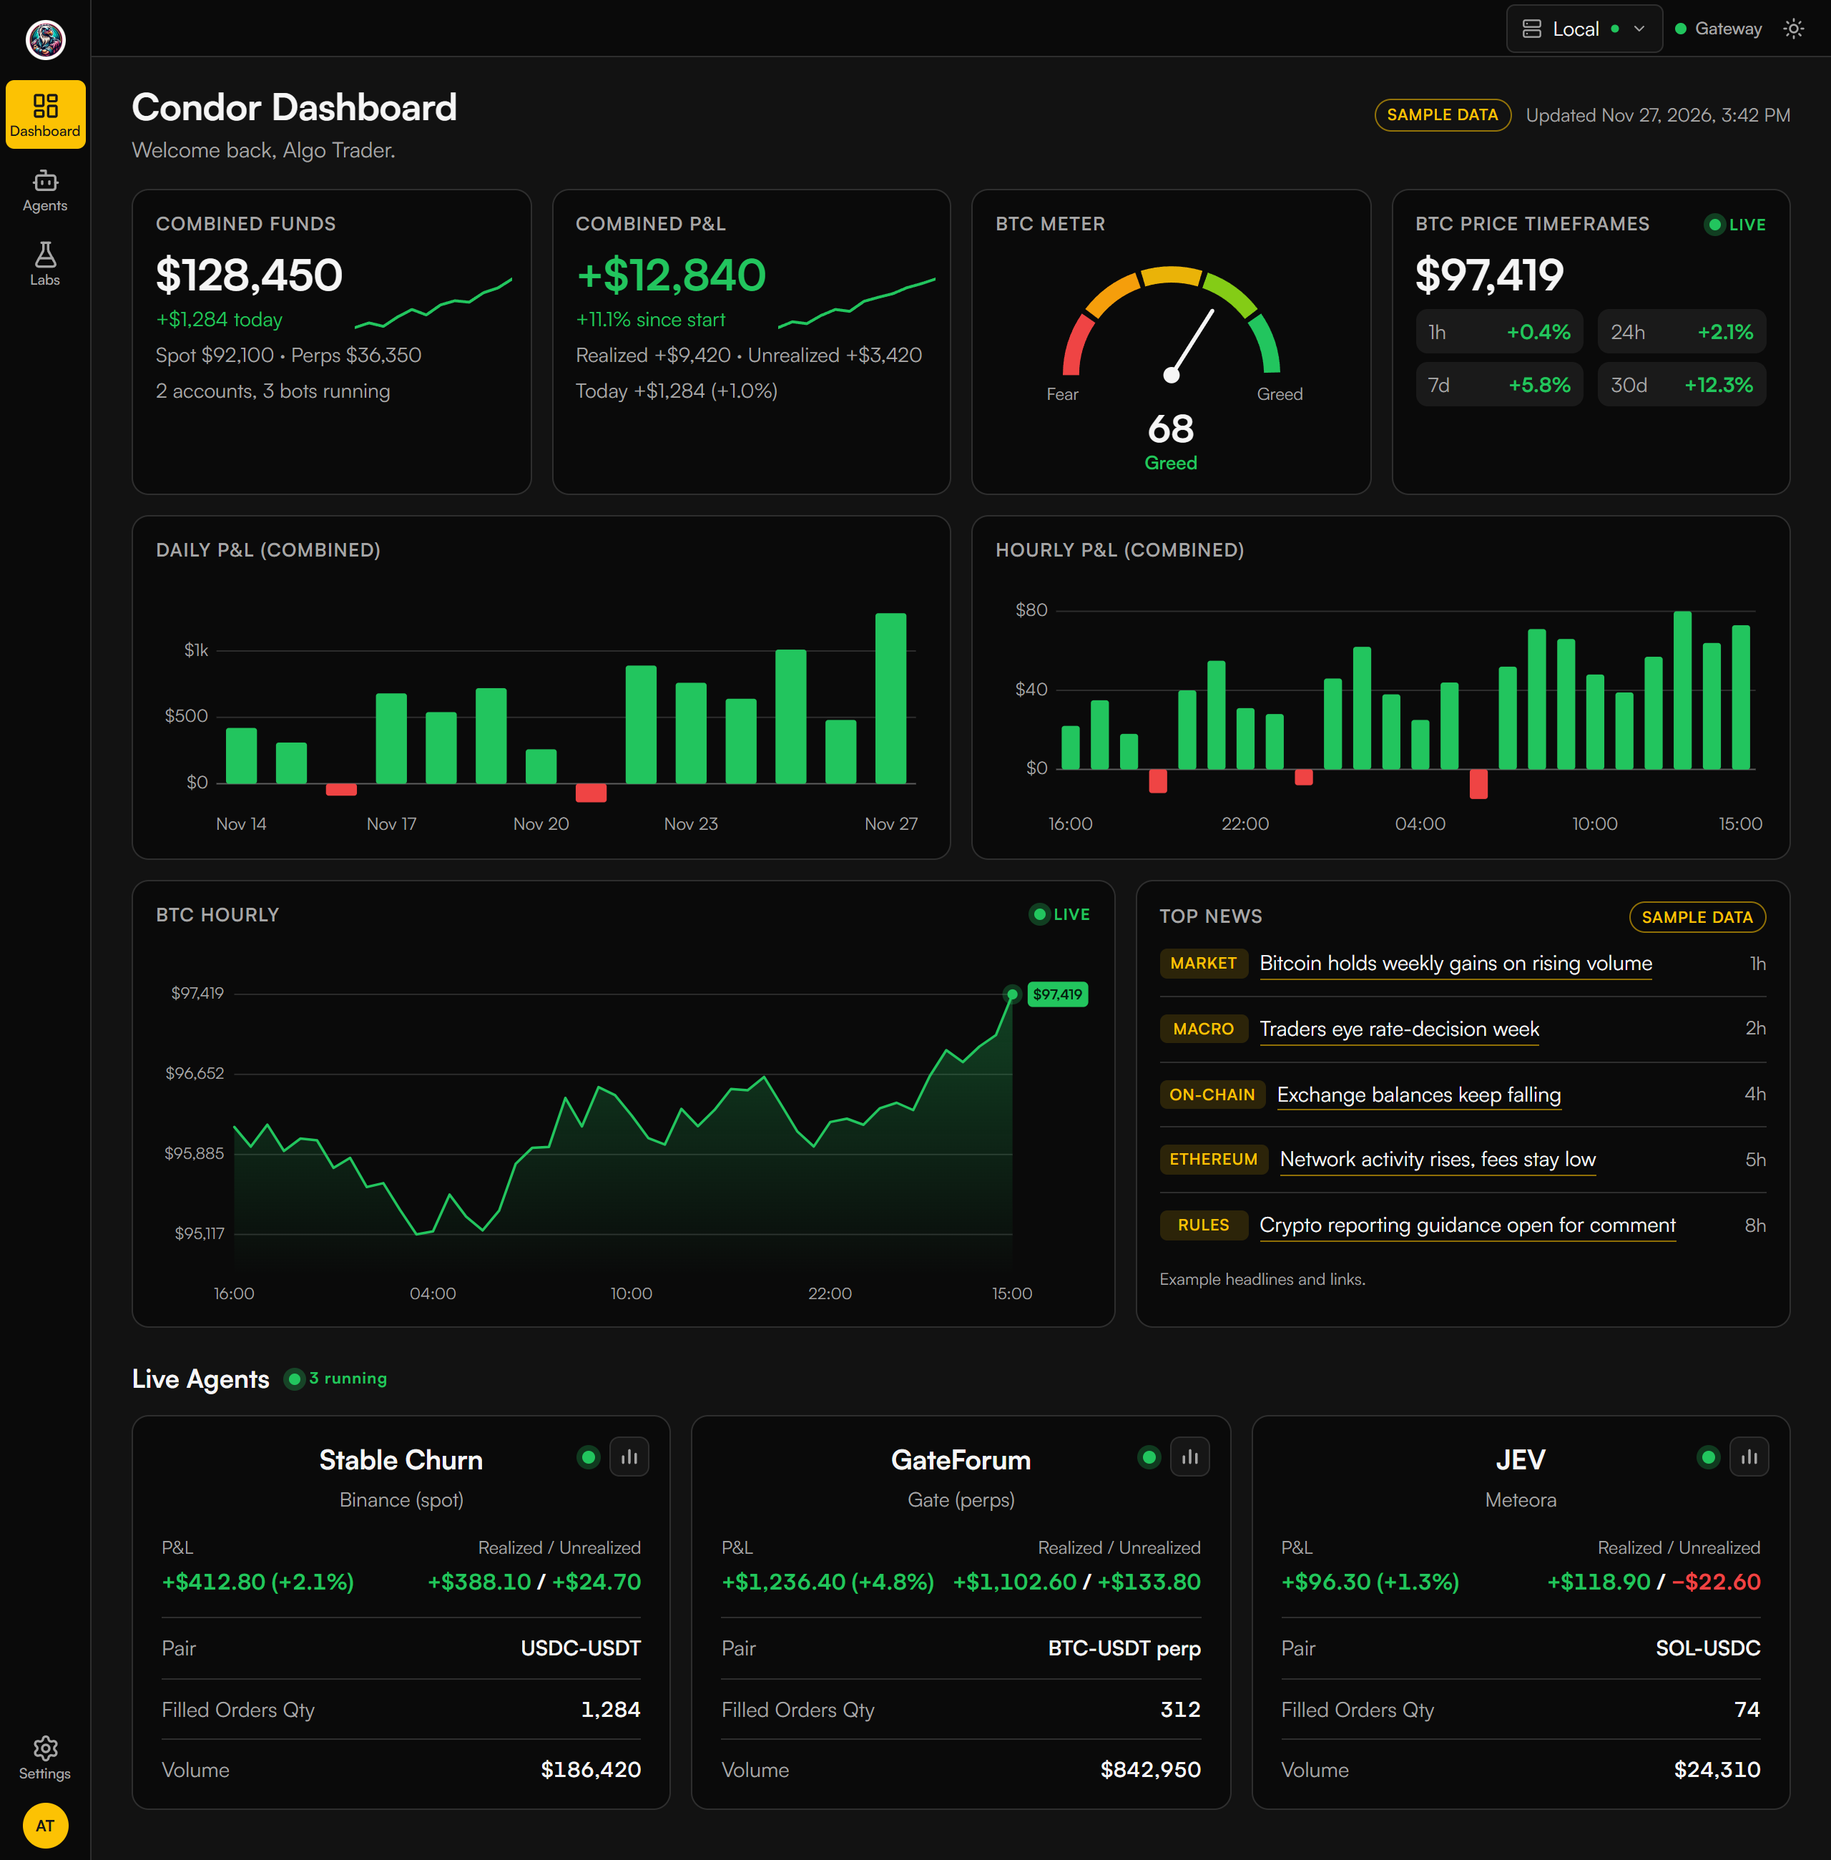
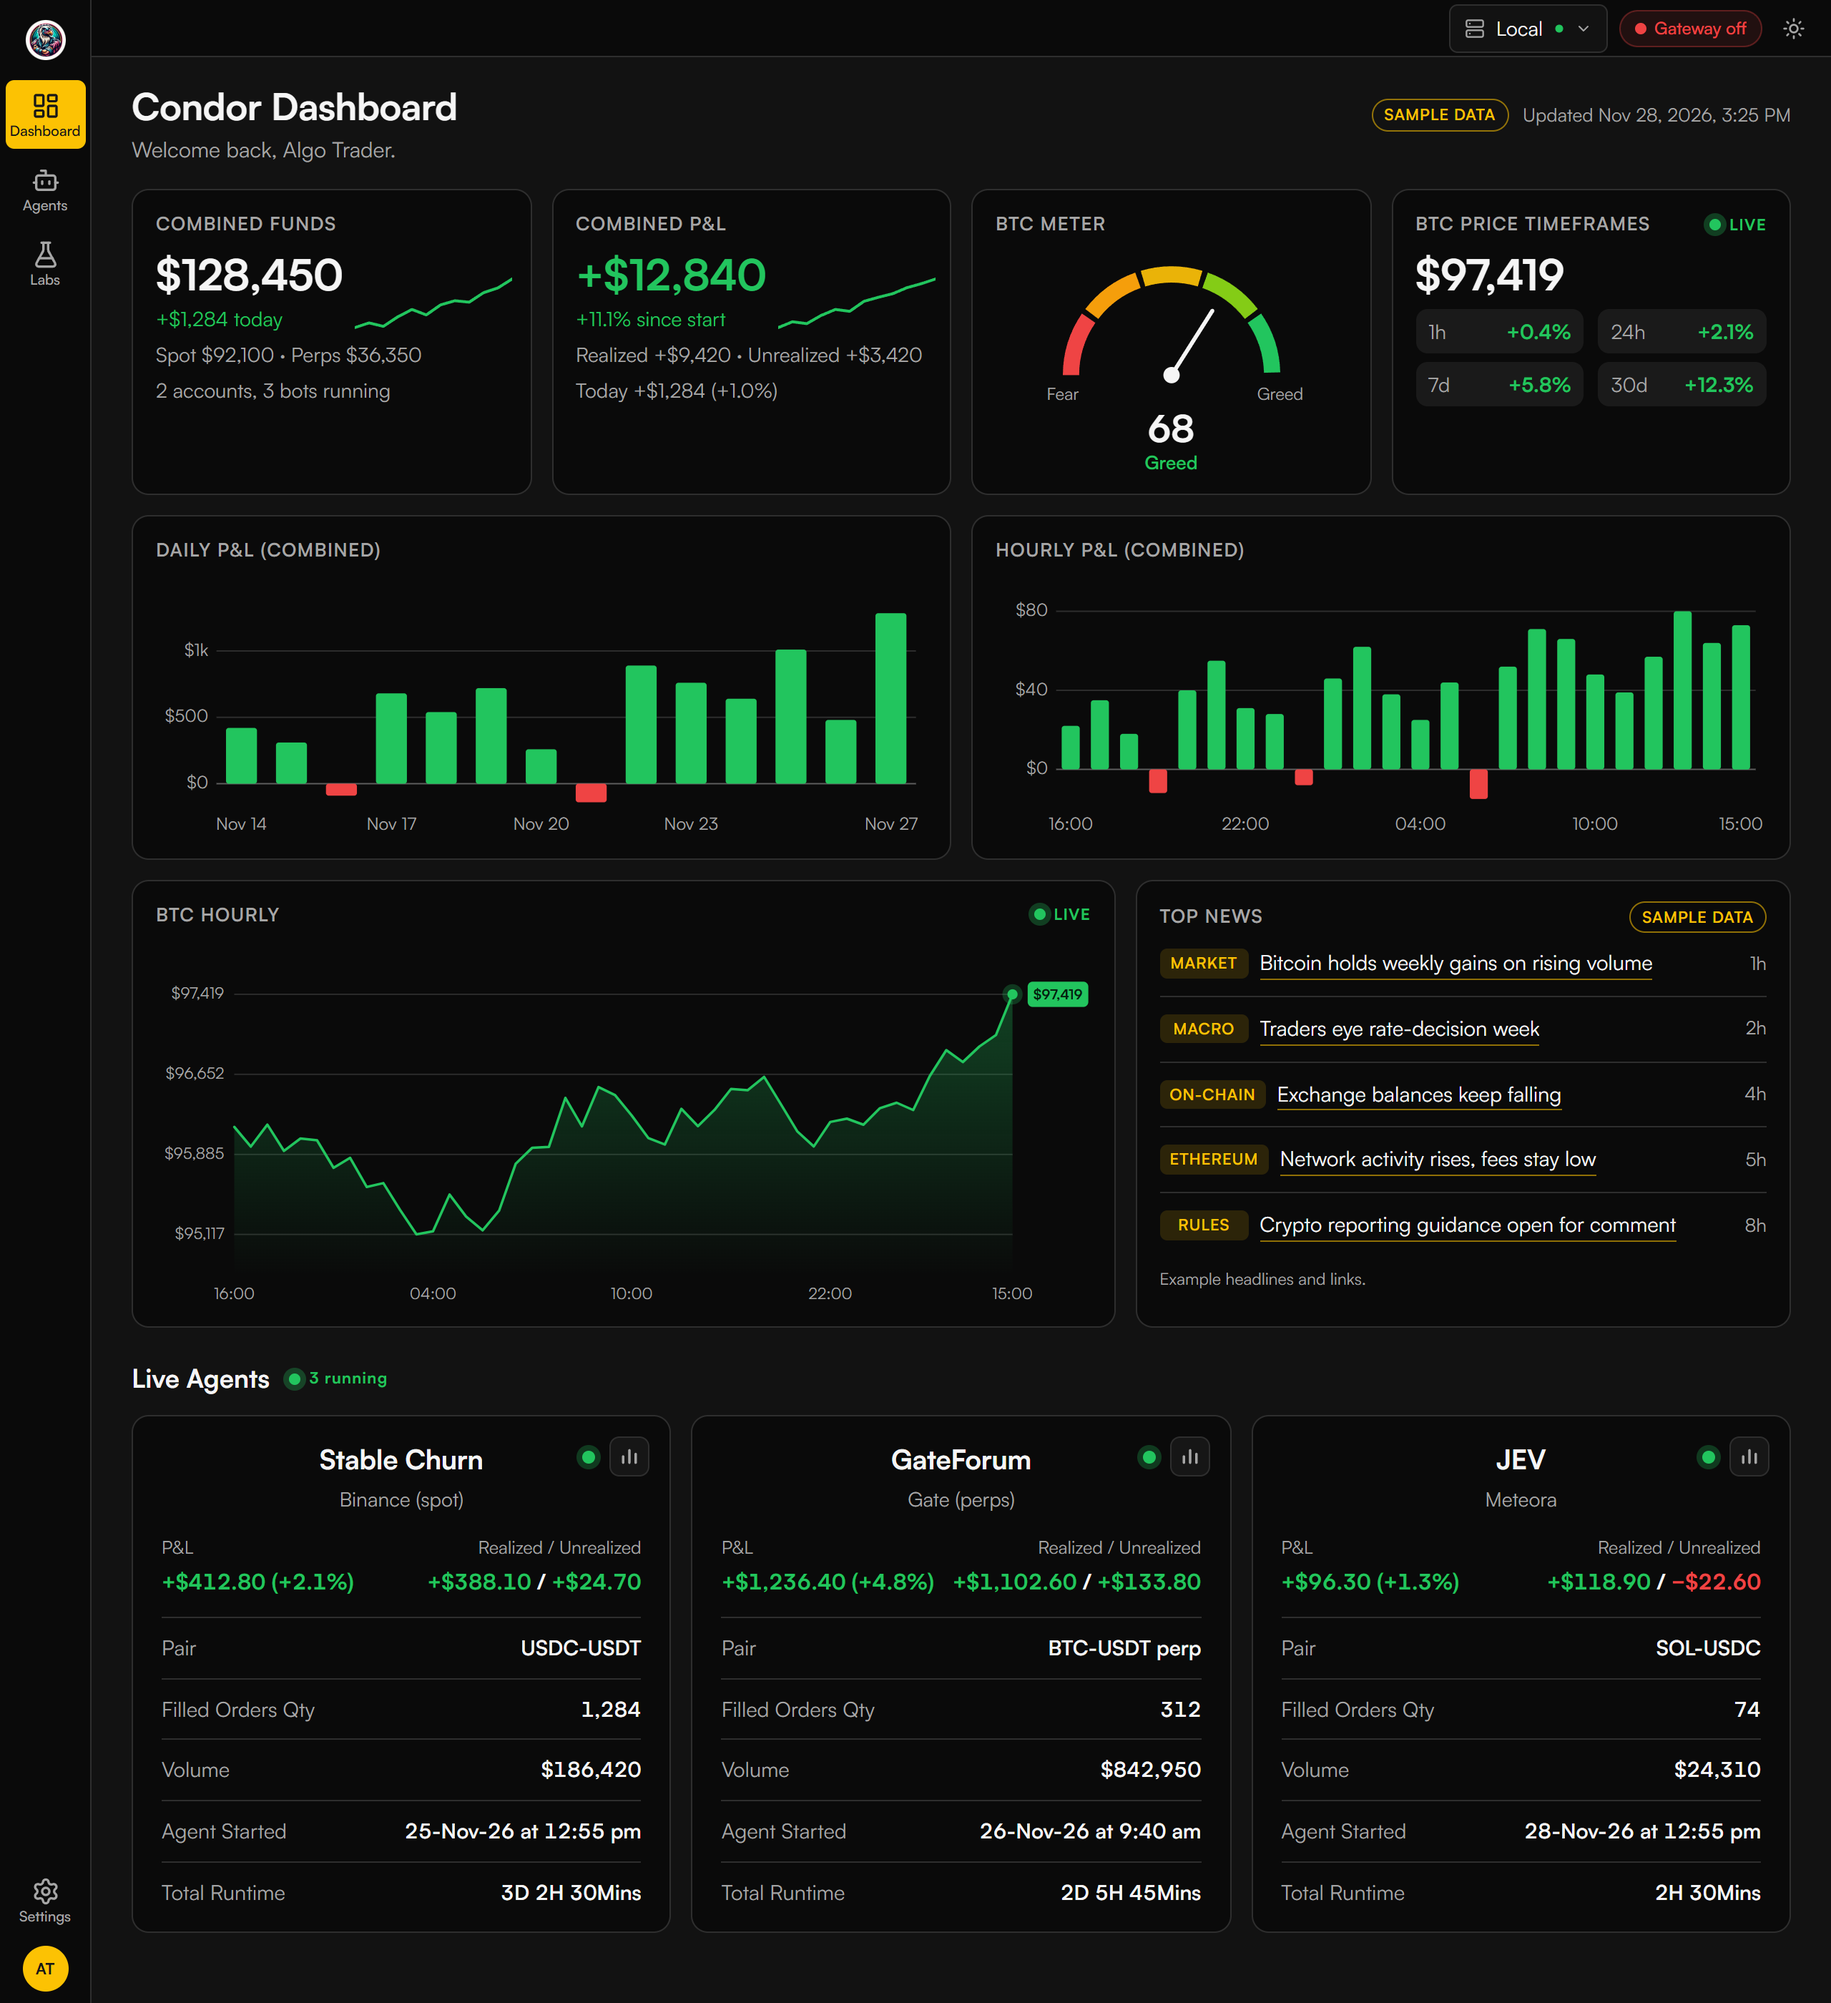
Dashboard proposal: Live Agents cards show Agent Started and Total Runtime
The three Live Agents cards on the Dashboard proposal gained two rows below
Volume, in the user's formats: Agent Started ("25-Nov-26 at 12:55 pm") and
Total Runtime ("3D 2H 30Mins"), with a different value on each card. The
mock's sample "now" is 28-Nov-26 at 3:25 PM, which the runtimes add up to.

- assets/dashboard-mock.html: two rows per card, and the header's Updated
  time set to the sample now.
- assets/dashboard-home-after.png: retaken at 1280 by 1400 at 2x (2560 by
  2800) on the showcase build's real rail and top bar (preview/combined
  0a1bdc9c), because the cards are taller.
- dashboard-home.html: alt text lists the new rows; refinement log row.

Sample data only: Condor does not report an agent's start time or runtime.

diff --git a/docs/proposals/assets/dashboard-mock.html b/docs/proposals/assets/dashboard-mock.html
@@ -72,7 +72,7 @@
 <main class="dash" aria-label="Condor Dashboard (mock)">
 <header>
   <div><h1>Condor Dashboard</h1><p class="greet">Welcome back, Algo Trader.</p></div>
-  <div class="upd"><span class="sample">Sample data</span><span>Updated Nov 27, 2026, 3:42 PM</span></div>
+  <div class="upd"><span class="sample">Sample data</span><span>Updated Nov 28, 2026, 3:25 PM</span></div>
 </header>
 
 <section class="grid4" aria-label="Summary cards">
@@ -102,6 +102,6 @@
 </section>
 
 <h2 class="sect">Live Agents <span class="live"><i></i>3 running</span></h2>
-<section class="row4" aria-label="Live agents"><article class="card acard"><div class="corner"><span class="dot"></span><span class="btn"><svg viewBox="0 0 16 16" width="14" height="14" aria-hidden="true"><path d="M3 13V8M8 13V3M13 13V6" stroke="currentColor" stroke-width="2" stroke-linecap="round" fill="none"/></svg></span></div><h3>Stable Churn</h3><p class="asub">Binance (spot)</p><div class="plrow"><div><span class="lab">P&amp;L</span><b class="up">+$412.80 (+2.1%)</b></div><div class="r"><span class="lab">Realized / Unrealized</span><b><span class="up">+$388.10</span> / <span class="up">+$24.70</span></b></div></div><dl class="rows"><div><dt>Pair</dt><dd>USDC-USDT</dd></div><div><dt>Filled Orders Qty</dt><dd>1,284</dd></div><div><dt>Volume</dt><dd>$186,420</dd></div></dl></article><article class="card acard"><div class="corner"><span class="dot"></span><span class="btn"><svg viewBox="0 0 16 16" width="14" height="14" aria-hidden="true"><path d="M3 13V8M8 13V3M13 13V6" stroke="currentColor" stroke-width="2" stroke-linecap="round" fill="none"/></svg></span></div><h3>GateForum</h3><p class="asub">Gate (perps)</p><div class="plrow"><div><span class="lab">P&amp;L</span><b class="up">+$1,236.40 (+4.8%)</b></div><div class="r"><span class="lab">Realized / Unrealized</span><b><span class="up">+$1,102.60</span> / <span class="up">+$133.80</span></b></div></div><dl class="rows"><div><dt>Pair</dt><dd>BTC-USDT perp</dd></div><div><dt>Filled Orders Qty</dt><dd>312</dd></div><div><dt>Volume</dt><dd>$842,950</dd></div></dl></article><article class="card acard"><div class="corner"><span class="dot"></span><span class="btn"><svg viewBox="0 0 16 16" width="14" height="14" aria-hidden="true"><path d="M3 13V8M8 13V3M13 13V6" stroke="currentColor" stroke-width="2" stroke-linecap="round" fill="none"/></svg></span></div><h3>JEV</h3><p class="asub">Meteora</p><div class="plrow"><div><span class="lab">P&amp;L</span><b class="up">+$96.30 (+1.3%)</b></div><div class="r"><span class="lab">Realized / Unrealized</span><b><span class="up">+$118.90</span> / <span class="down">−$22.60</span></b></div></div><dl class="rows"><div><dt>Pair</dt><dd>SOL-USDC</dd></div><div><dt>Filled Orders Qty</dt><dd>74</dd></div><div><dt>Volume</dt><dd>$24,310</dd></div></dl></article></section>
+<section class="row4" aria-label="Live agents"><article class="card acard"><div class="corner"><span class="dot"></span><span class="btn"><svg viewBox="0 0 16 16" width="14" height="14" aria-hidden="true"><path d="M3 13V8M8 13V3M13 13V6" stroke="currentColor" stroke-width="2" stroke-linecap="round" fill="none"/></svg></span></div><h3>Stable Churn</h3><p class="asub">Binance (spot)</p><div class="plrow"><div><span class="lab">P&amp;L</span><b class="up">+$412.80 (+2.1%)</b></div><div class="r"><span class="lab">Realized / Unrealized</span><b><span class="up">+$388.10</span> / <span class="up">+$24.70</span></b></div></div><dl class="rows"><div><dt>Pair</dt><dd>USDC-USDT</dd></div><div><dt>Filled Orders Qty</dt><dd>1,284</dd></div><div><dt>Volume</dt><dd>$186,420</dd></div><div><dt>Agent Started</dt><dd>25-Nov-26 at 12:55 pm</dd></div><div><dt>Total Runtime</dt><dd>3D 2H 30Mins</dd></div></dl></article><article class="card acard"><div class="corner"><span class="dot"></span><span class="btn"><svg viewBox="0 0 16 16" width="14" height="14" aria-hidden="true"><path d="M3 13V8M8 13V3M13 13V6" stroke="currentColor" stroke-width="2" stroke-linecap="round" fill="none"/></svg></span></div><h3>GateForum</h3><p class="asub">Gate (perps)</p><div class="plrow"><div><span class="lab">P&amp;L</span><b class="up">+$1,236.40 (+4.8%)</b></div><div class="r"><span class="lab">Realized / Unrealized</span><b><span class="up">+$1,102.60</span> / <span class="up">+$133.80</span></b></div></div><dl class="rows"><div><dt>Pair</dt><dd>BTC-USDT perp</dd></div><div><dt>Filled Orders Qty</dt><dd>312</dd></div><div><dt>Volume</dt><dd>$842,950</dd></div><div><dt>Agent Started</dt><dd>26-Nov-26 at 9:40 am</dd></div><div><dt>Total Runtime</dt><dd>2D 5H 45Mins</dd></div></dl></article><article class="card acard"><div class="corner"><span class="dot"></span><span class="btn"><svg viewBox="0 0 16 16" width="14" height="14" aria-hidden="true"><path d="M3 13V8M8 13V3M13 13V6" stroke="currentColor" stroke-width="2" stroke-linecap="round" fill="none"/></svg></span></div><h3>JEV</h3><p class="asub">Meteora</p><div class="plrow"><div><span class="lab">P&amp;L</span><b class="up">+$96.30 (+1.3%)</b></div><div class="r"><span class="lab">Realized / Unrealized</span><b><span class="up">+$118.90</span> / <span class="down">−$22.60</span></b></div></div><dl class="rows"><div><dt>Pair</dt><dd>SOL-USDC</dd></div><div><dt>Filled Orders Qty</dt><dd>74</dd></div><div><dt>Volume</dt><dd>$24,310</dd></div><div><dt>Agent Started</dt><dd>28-Nov-26 at 12:55 pm</dd></div><div><dt>Total Runtime</dt><dd>2H 30Mins</dd></div></dl></article></section>
 </main>
 </body></html>

diff --git a/docs/proposals/dashboard-home.html b/docs/proposals/dashboard-home.html
@@ -29,7 +29,7 @@
 
 <h2 id="after">After</h2>
 <p>The home page shows the trader's funds: balances and P&amp;L status, including daily and hourly. This is what most traders care about above everything else. Then it shows the BTC chart and the top news, which directly affect those funds. Then it shows the status of the trader's live agents.</p>
-<figure class="wide"><a href="assets/dashboard-home-after.png"><img src="assets/dashboard-home-after.png" alt="Mock of the Condor Dashboard in the dark theme with sample data: the title Condor Dashboard with a welcome greeting, four cards (Combined Funds, Combined P&amp;L, BTC Meter, BTC Price Timeframes), Daily and Hourly P&amp;L bar charts, a BTC hourly chart, a Top News card with five links, and below them three Live Agents cards: Stable Churn, GateForum and JEV"></a></figure>
+<figure class="wide"><a href="assets/dashboard-home-after.png"><img src="assets/dashboard-home-after.png" alt="Mock of the Condor Dashboard in the dark theme with sample data: the title Condor Dashboard with a welcome greeting, four cards (Combined Funds, Combined P&amp;L, BTC Meter, BTC Price Timeframes), Daily and Hourly P&amp;L bar charts, a BTC hourly chart, a Top News card with five links, and below them three Live Agents cards (Stable Churn, GateForum and JEV), each with P&amp;L, realized and unrealized, pair, filled orders, volume, when its agent started and its total runtime"></a></figure>
 <p class="sources">Note: Image above is a mock with sample data.</p>
 
 <h2 id="notes">Notes</h2>
@@ -59,6 +59,7 @@
 <table>
   <thead><tr><th>Date</th><th>Change</th><th>Reason / source</th><th>PR</th></tr></thead>
   <tbody>
+    <tr><td>2026-11-28</td><td>The Live Agents cards gain two rows after Volume: <strong>Agent Started</strong> (<code>25-Nov-26 at 12:55 pm</code>) and <strong>Total Runtime</strong> (<code>3D 2H 30Mins</code>), with a different value for each card (GateForum <code>26-Nov-26 at 9:40 am</code> / <code>2D 5H 45Mins</code>; JEV <code>28-Nov-26 at 12:55 pm</code> / <code>2H 30Mins</code>); the mock's sample "now" is 28-Nov-26 at 3:25 PM, which the runtimes add up to; the picture is retaken on the current rail build at 1280 by 1400 at 2x (2560 by 2800)</td><td>User request. Sample data only: Condor does not report an agent's start time or runtime yet</td><td>#13</td></tr>
     <tr><td>2026-11-28</td><td>The After picture is retaken on the updated left rail (Dashboard, Agents, Labs, then Settings and the avatar); the page content is the same</td><td>User review; PR #3 at <code>b5a1bd0d</code></td><td>#13</td></tr>
     <tr><td>2026-11-27</td><td>Revised after review: the Why is now three short paragraphs; the page is trimmed to Why, Before, After, Notes, Rollout and Decision; the Before keeps only what is missing for a trader and has no caption; the After text now explains what the page is for instead of describing the picture, and its note is shortened; the table under the picture is removed; the picture gains a "Live Agents" row of three cards (Stable Churn, GateForum, JEV) with sample data, and is retaken at 1280 by 1300 at 2x (2560 by 2600); the mock source is updated to match</td><td>User review of the proposal</td><td>#13</td></tr>
     <tr><td>2026-11-27</td><td>First version: reasons for the change, the current Agents home as "Before", a mock Dashboard with sample data on the real rail and top bar as "After" (the mock is kept in <code>assets/dashboard-mock.html</code>), notes, and a statement that nothing is built</td><td>User request for a proposal on the Dashboard as the default home page. The reference pictures the user mentioned did not arrive, so the layout followed the written list</td><td>#13</td></tr>
